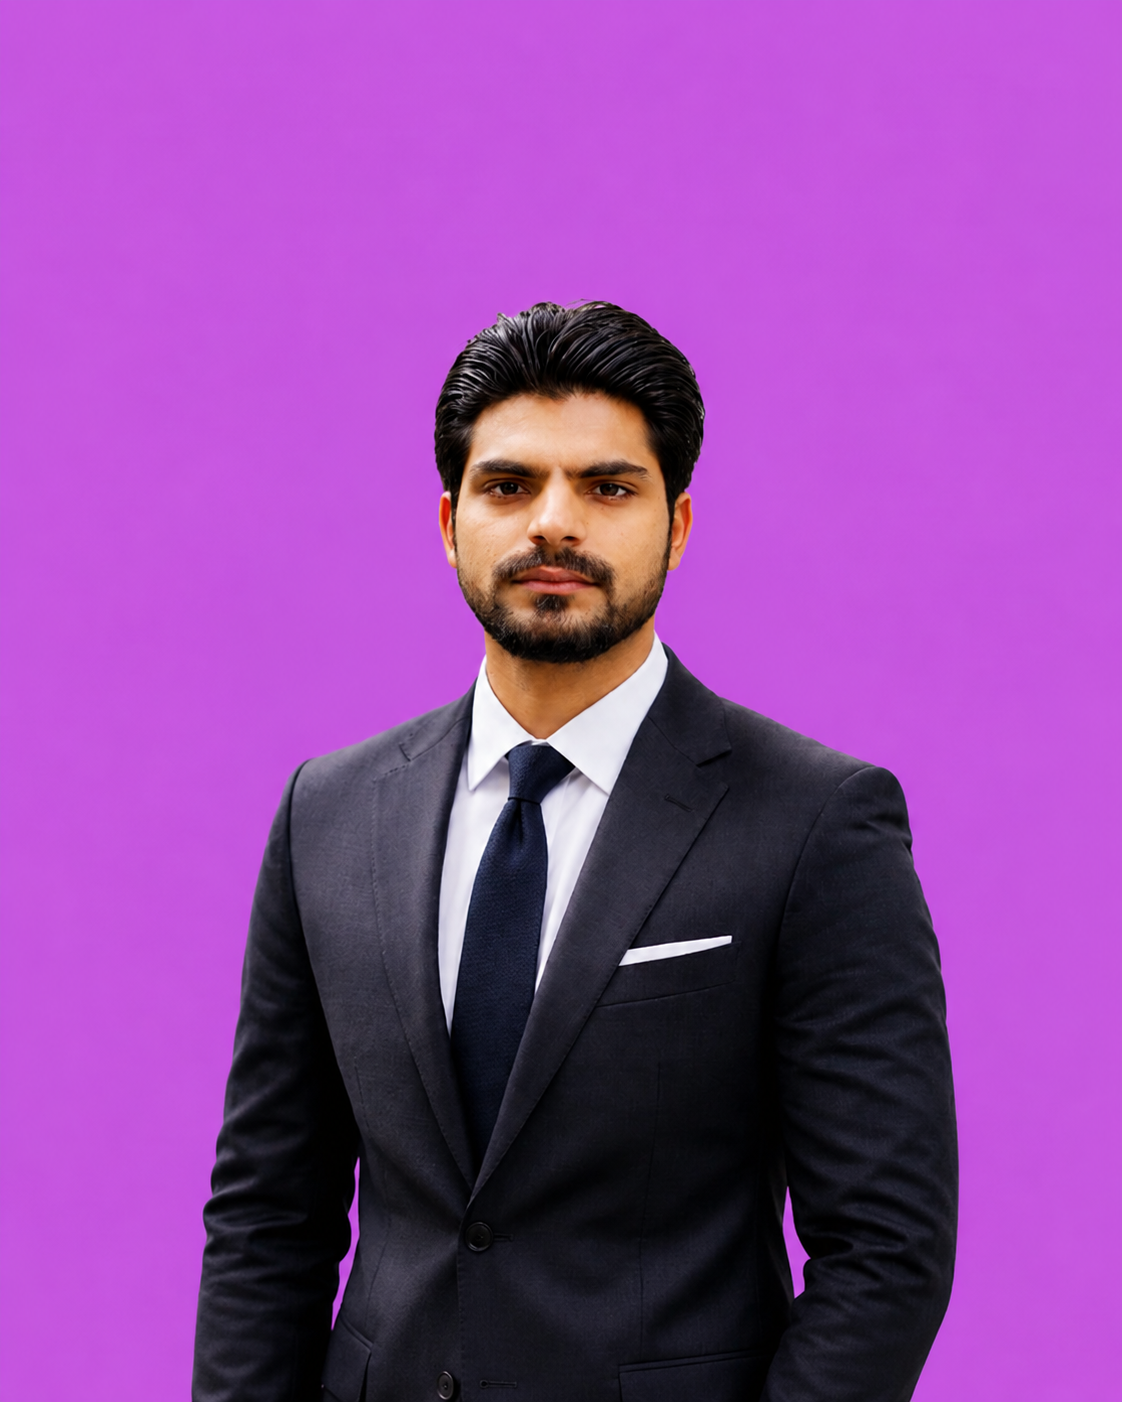
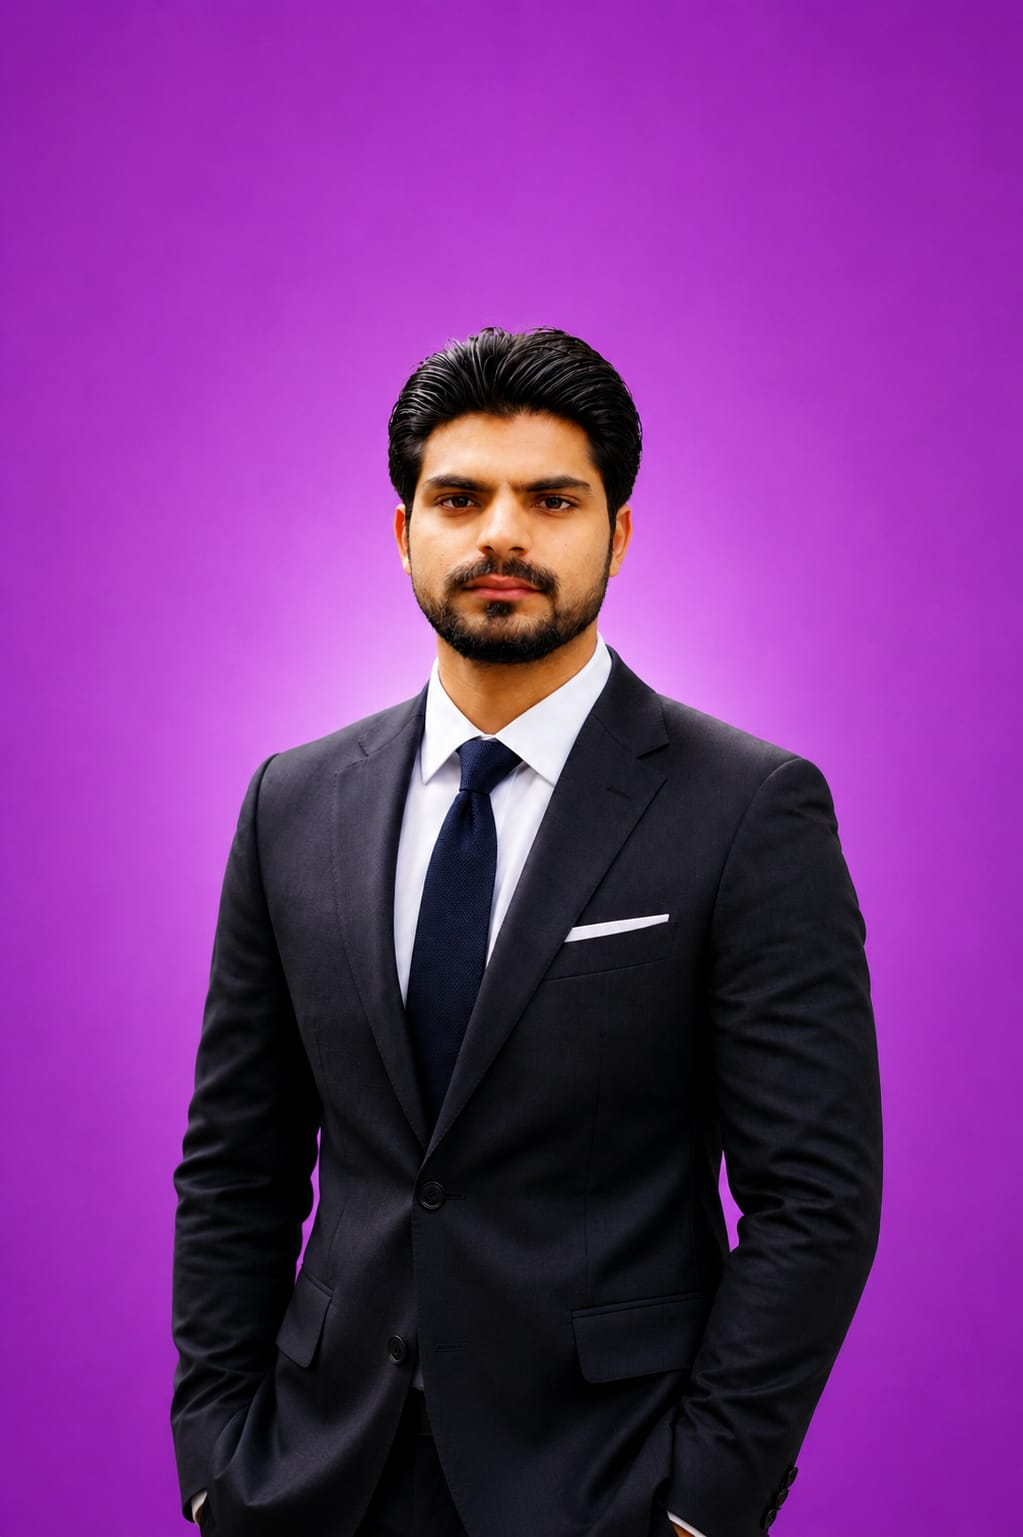
Update Furqan photo; fix Aamir/Afrasyab swap; zoom 1.3; rounded hero frame
1. Furqan: updated photo with WhatsApp Image (black suit, purple bg).
2. Fixed photo swap: Afrasyab now shows afrasyab.png, Aamir shows
   aamir.png (were incorrectly swapped).
3. Zoom increased to 1.3 for all 3 photos to avoid space above head.
4. HeroFramePlayer: wrapped img in a div with rounded-[2rem] +
   overflow-hidden + object-cover so all video frames show rounded corners
   like the previous static image.

diff --git a/app/about/page.tsx b/app/about/page.tsx
@@ -100,22 +100,22 @@ const team = [
     name: "Afrasyab",
     role: "Founder & CEO",
     bio: "Former Google strategist with 10+ years scaling digital operations for enterprise brands.",
-    image: "/team/aamir.png",
-    zoom: "1.15",
+    image: "/team/afrasyab.png",
+    zoom: "1.3",
   },
   {
     name: "Muhammad Furqan",
     role: "Head of SEO",
     bio: "Technical SEO expert who has driven 300%+ organic growth for e-commerce brands.",
     image: "/team/furqan-new.png",
-    zoom: "1.15",
+    zoom: "1.3",
   },
   {
     name: "Muhammad Aamir",
     role: "Creative Director",
     bio: "Award-winning designer passionate about brands that challenge industry norms.",
-    image: "/team/afrasyab.png",
-    zoom: "1",
+    image: "/team/aamir.png",
+    zoom: "1.3",
   },
 ];
 

diff --git a/components/HeroFramePlayer.tsx b/components/HeroFramePlayer.tsx
@@ -67,12 +67,14 @@ export default function HeroFramePlayer({
   }, [frameCount, fps, basePath, prefix]);
 
   return (
-    // eslint-disable-next-line @next/next/no-img-element
-    <img
-      ref={imgRef}
-      alt=""
-      className={`w-full h-full object-contain ${className}`}
-      aria-hidden="true"
-    />
+    <div className={`w-full h-full overflow-hidden rounded-[2rem] ${className}`}>
+      {/* eslint-disable-next-line @next/next/no-img-element */}
+      <img
+        ref={imgRef}
+        alt=""
+        className="w-full h-full object-cover"
+        aria-hidden="true"
+      />
+    </div>
   );
 }
